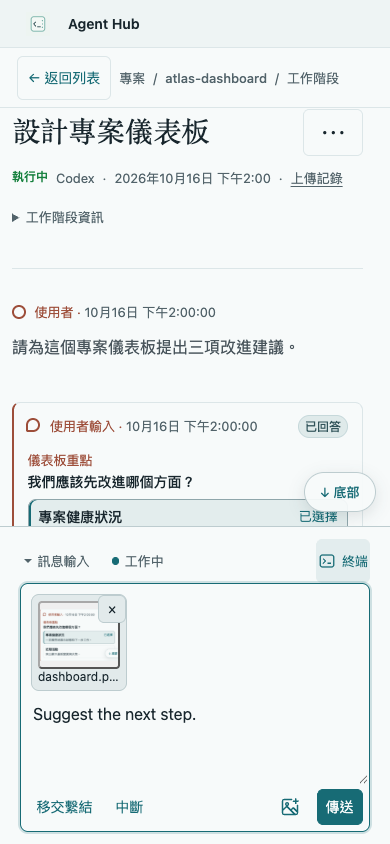
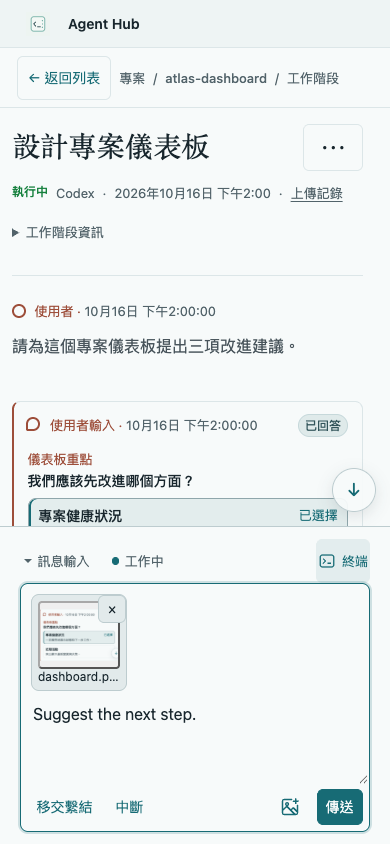
Refine session reader spacing and controls (#218)

diff --git a/src/client/styles/reader.css b/src/client/styles/reader.css
@@ -97,7 +97,7 @@ body:has(.session-layout) {
   display: flex;
   justify-content: space-between;
   gap: 2rem;
-  padding-bottom: var(--space-large);
+  padding-bottom: var(--space-medium);
   border-bottom: 1px solid var(--mist);
 }
 .reader-header > div {
@@ -134,6 +134,9 @@ body:has(.session-layout) {
   padding: 2rem 0 0;
   margin: 0;
   list-style: none;
+}
+.reader-header + .timeline {
+  padding-top: var(--space-large);
 }
 .load-more {
   padding: 0.48rem 0.72rem;
@@ -203,19 +206,18 @@ body:has(.session-layout) {
   pointer-events: none;
 }
 .page-jump-control {
-  min-width: 4.5rem;
-  min-height: 2.5rem;
-  padding: 0.45rem 0.7rem;
+  display: grid;
+  place-items: center;
+  width: 2.75rem;
+  height: 2.75rem;
+  padding: 0;
   color: var(--current);
   background: color-mix(in srgb, var(--paper) 94%, transparent);
   border: 1px solid var(--notice-border);
   border-radius: 999px;
   box-shadow: 0 0.3rem 1rem rgb(33 49 56 / 12%);
-  font-family: var(--body-font);
-  font-size: var(--text-small);
+  font-size: 1.125rem;
   font-weight: var(--weight-medium);
-  letter-spacing: normal;
-  text-transform: none;
   cursor: pointer;
   opacity: 0;
   pointer-events: none;

diff --git a/src/client/components/PageJumpControls.tsx b/src/client/components/PageJumpControls.tsx
@@ -78,7 +78,7 @@ export function PageJumpControls({
         tabIndex={visible.top ? 0 : -1}
         onClick={() => scrollTo(0)}
       >
-        <span aria-hidden="true">↑</span> {t("top")}
+        <span aria-hidden="true">↑</span>
       </button>
       <button
         type="button"
@@ -88,7 +88,7 @@ export function PageJumpControls({
         tabIndex={visible.bottom ? 0 : -1}
         onClick={() => scrollTo(scrollElement?.scrollHeight ?? 0)}
       >
-        <span aria-hidden="true">↓</span> {t("end")}
+        <span aria-hidden="true">↓</span>
       </button>
     </nav>
   );

diff --git a/src/client/i18n/locales/zh-TW.ts b/src/client/i18n/locales/zh-TW.ts
@@ -7,8 +7,6 @@ export const messages: Record<keyof typeof english, string> = {
   collapseSidebar: "收合側欄",
   expandSidebar: "展開側欄",
   task: "任務",
-  top: "頂部",
-  end: "底部",
   resumeUnavailable: "此工作階段無法恢復。",
 
   enter: "Enter",

diff --git a/src/client/i18n/locales/zh-CN.ts b/src/client/i18n/locales/zh-CN.ts
@@ -7,8 +7,6 @@ export const messages: Record<keyof typeof english, string> = {
   collapseSidebar: "收起侧栏",
   expandSidebar: "展开侧栏",
   task: "任务",
-  top: "顶部",
-  end: "底部",
   resumeUnavailable: "此会话无法恢复。",
 
   enter: "Enter",

diff --git a/src/client/i18n/locales/en.ts b/src/client/i18n/locales/en.ts
@@ -6,8 +6,6 @@ export const messages = {
   collapseSidebar: "Collapse sidebar",
   expandSidebar: "Expand sidebar",
   task: "Task",
-  top: "TOP",
-  end: "END",
   resumeUnavailable: "This session cannot be resumed.",
 
   enter: "Enter",

diff --git a/src/client/styles/terminal-preview.css b/src/client/styles/terminal-preview.css
@@ -89,7 +89,7 @@
 }
 .terminal-keypad {
   position: absolute;
-  right: 0.55rem;
+  right: 1rem;
   bottom: 2.55rem;
   width: 9.75rem;
   padding: 0.2rem;
